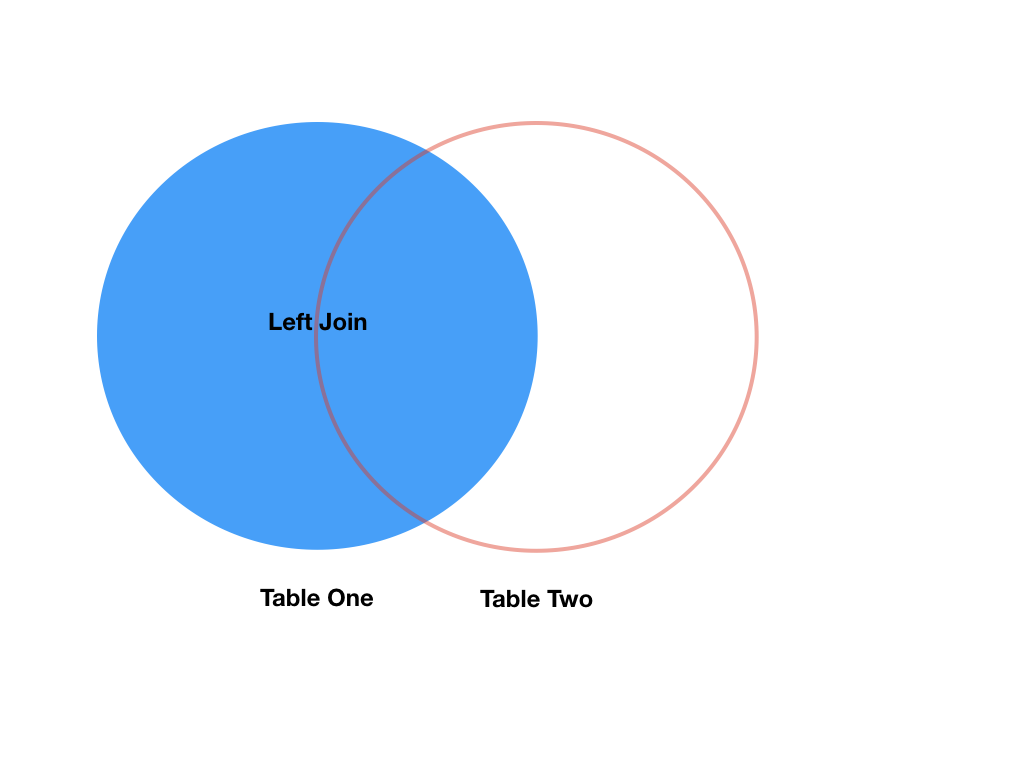
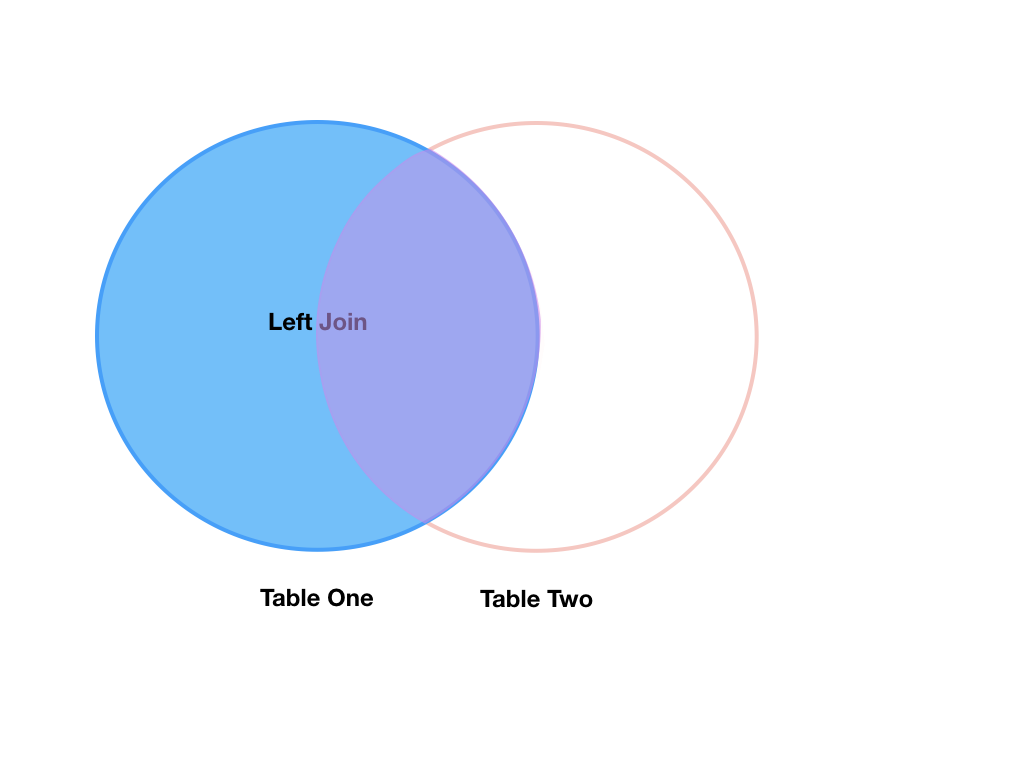
04-merging-data.md: new join images
Closes datacarpentry/python-ecology-lesson#282

diff --git a/episodes/04-merging-data.md b/episodes/04-merging-data.md
@@ -227,7 +227,7 @@ Inner joins yield a DataFrame that contains only rows where the value being
 joins exists in BOTH tables. An example of an inner join, adapted from [this
 page](http://blog.codinghorror.com/a-visual-explanation-of-sql-joins/) is below:
 
-![Inner join -- courtesy of codinghorror.com](http://blog.codinghorror.com/content/images/uploads/2007/10/6a0120a85dcdae970b012877702708970c-pi.png)
+![Inner join -- courtesy of codinghorror.com](../fig/inner-join.png)
 
 The pandas function for performing joins is called `merge` and an Inner join is
 the default option:  
@@ -308,7 +308,7 @@ for those columns in the resulting joined DataFrame.
 Note: a left join will still discard rows from the `right` DataFrame that do not
 have values for the join key(s) in the `left` DataFrame.
 
-![Left Join](http://blog.codinghorror.com/content/images/uploads/2007/10/6a0120a85dcdae970b01287770273e970c-pi.png)
+![Left Join](../fig/left-join.png)
 
 A left join is performed in pandas by calling the same `merge` function used for
 inner join, but using the `how='left'` argument:
